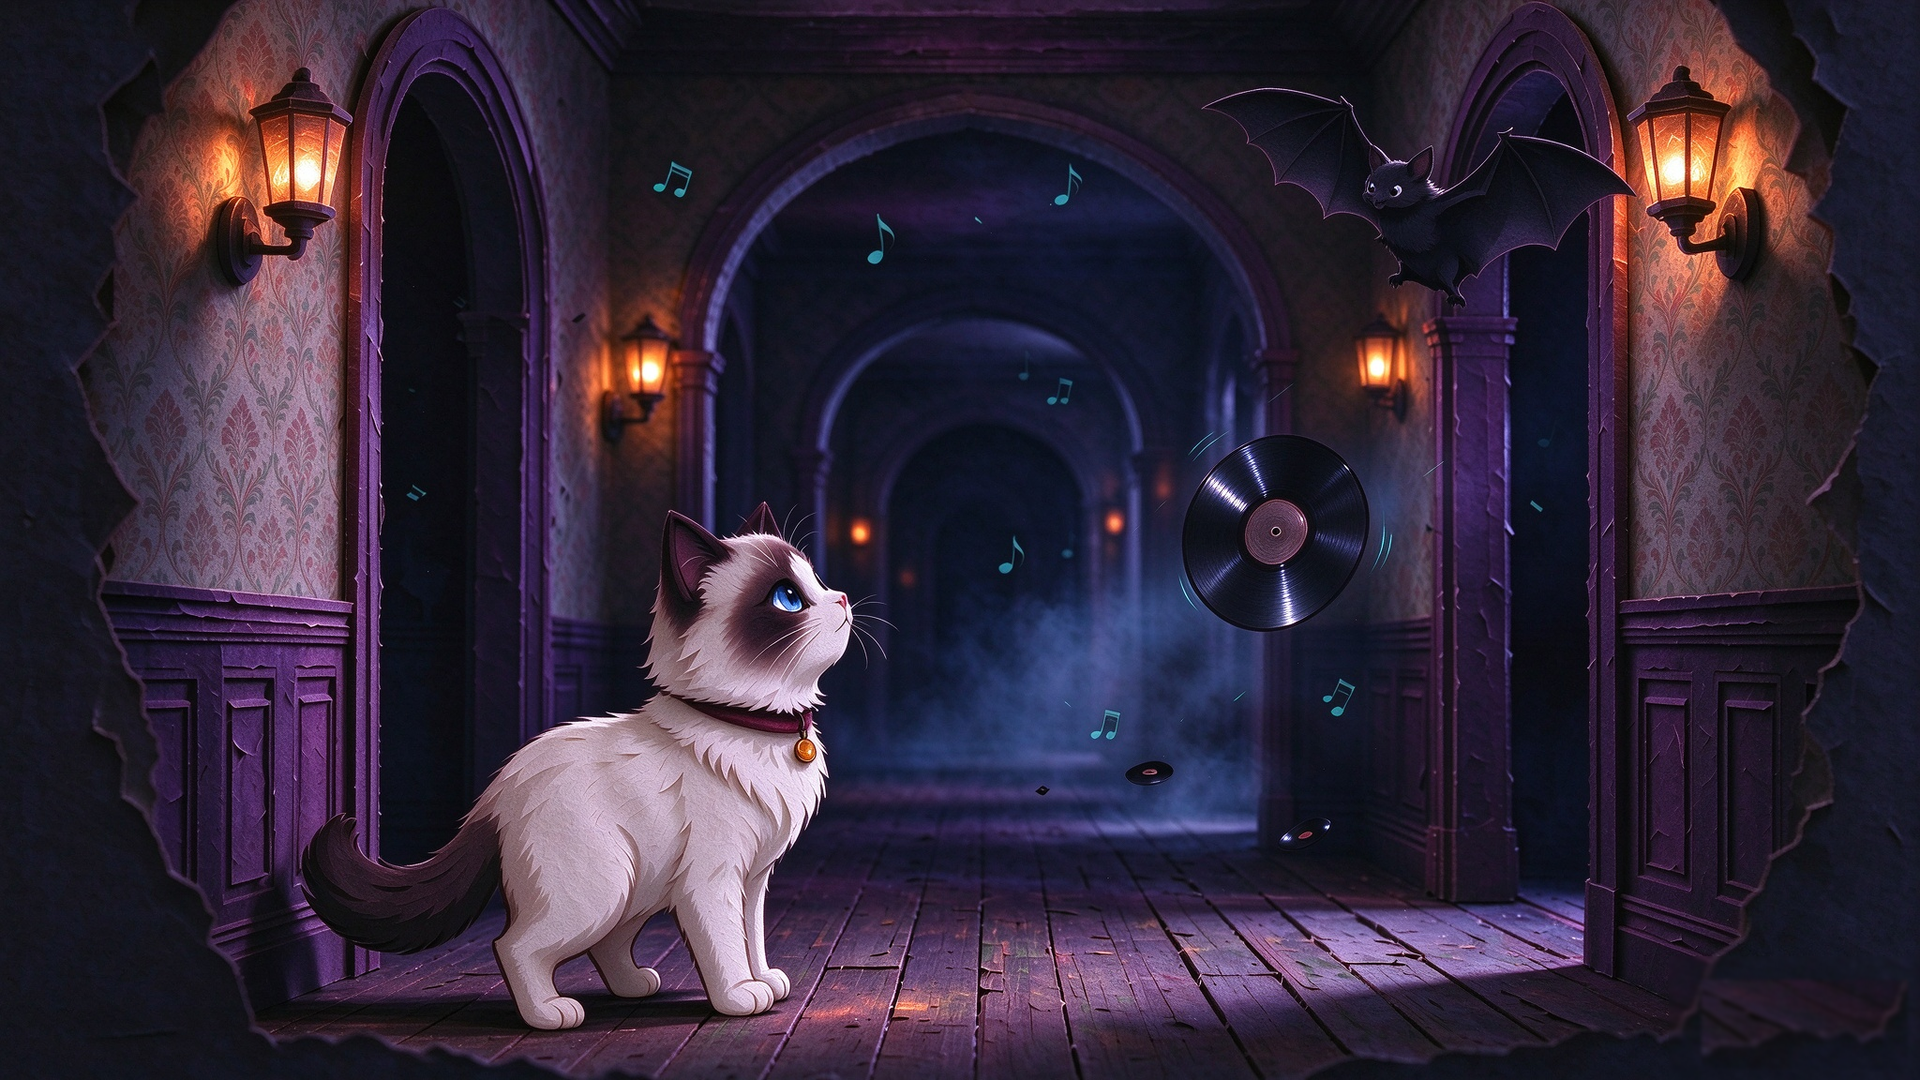
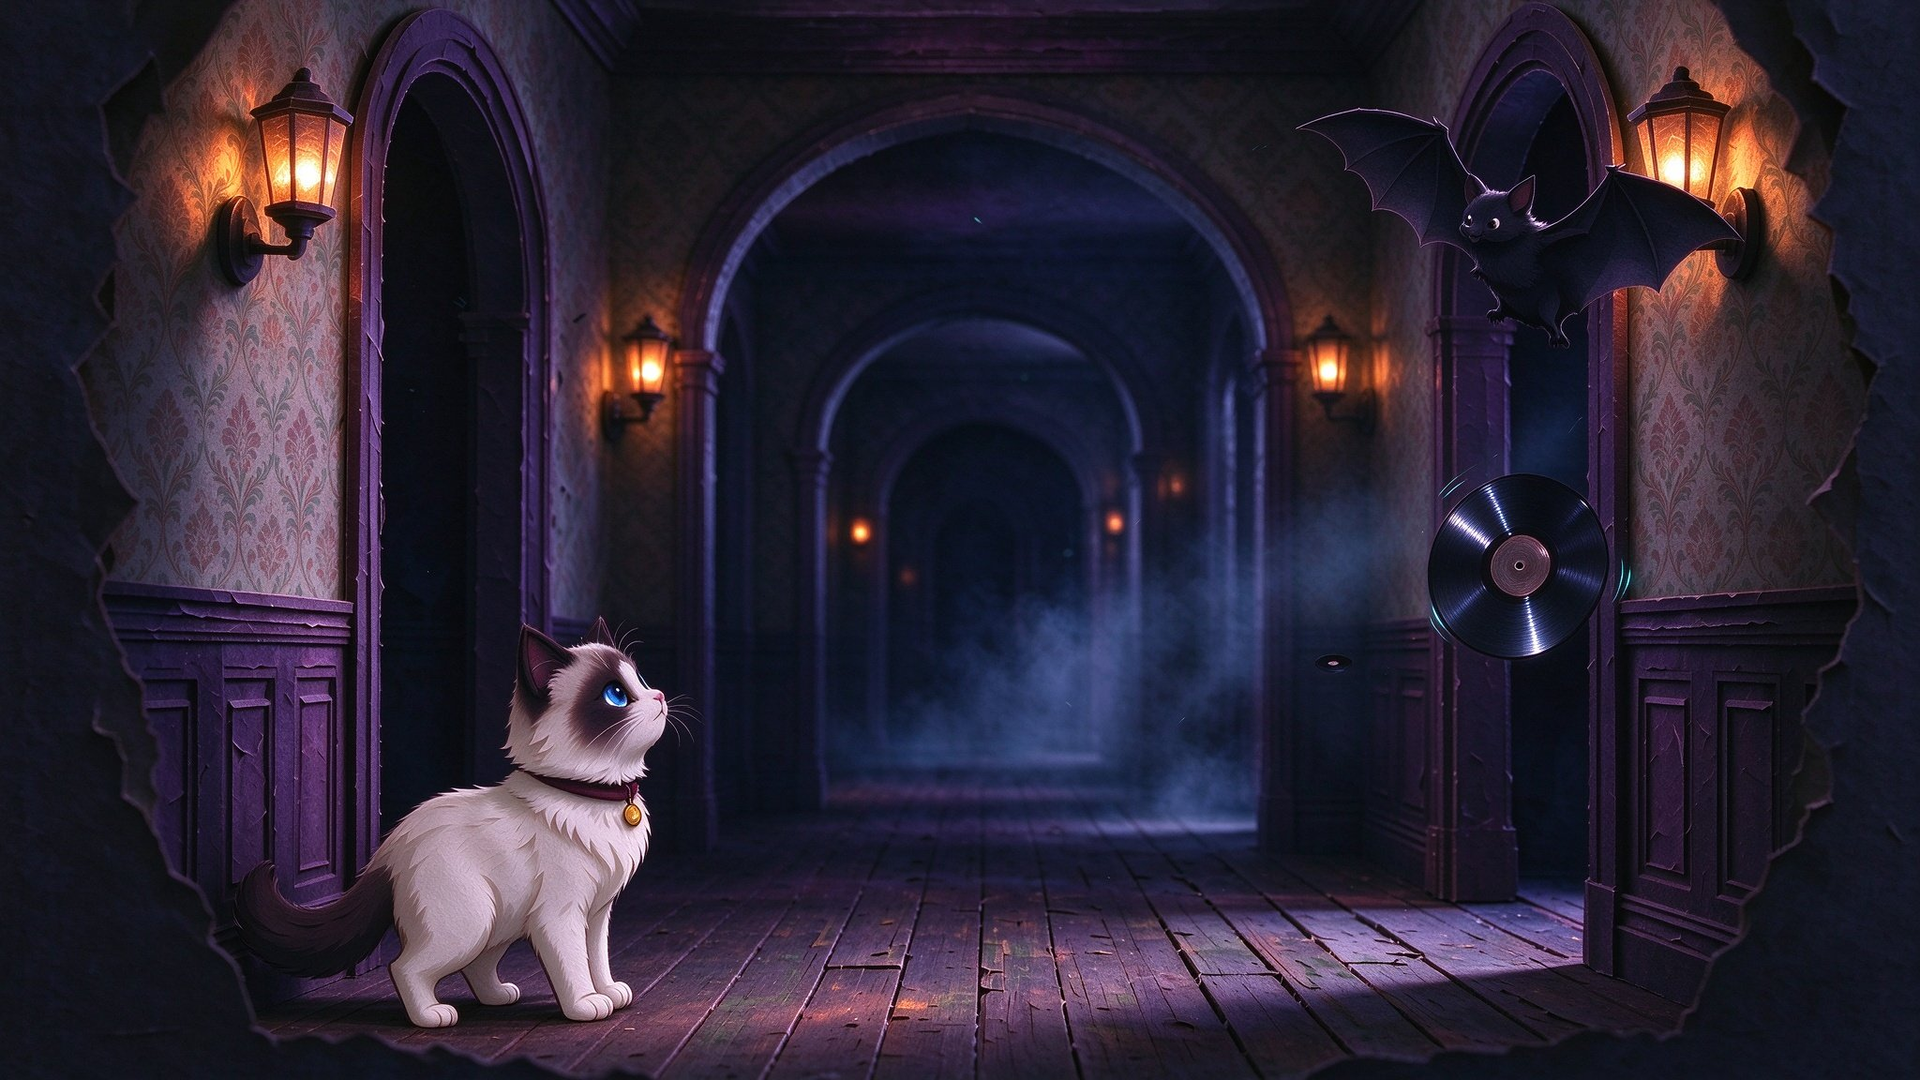
喵音回廊V6.7 使用新菜单背景

diff --git a/assets/scripts/game/MenuView.ts b/assets/scripts/game/MenuView.ts
@@ -61,6 +61,11 @@ export class MenuView {
             this.addButton(LEVELS[id], 80 - index * 132);
         });
 
+        const hintBg = makeNode('MenuHintBg', this.root, 0, -screenH * 0.5 + 90, 820, 42);
+        const hintG = hintBg.addComponent(Graphics);
+        hintG.fillColor = new Color(8, 6, 14, 190);
+        hintG.roundRect(-410, -21, 820, 42, 16);
+        hintG.fill();
         addLabel(
             this.root,
             'MenuHint',
